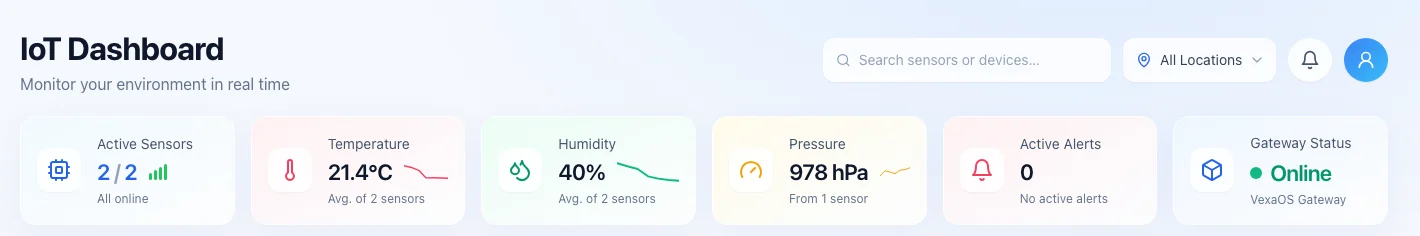
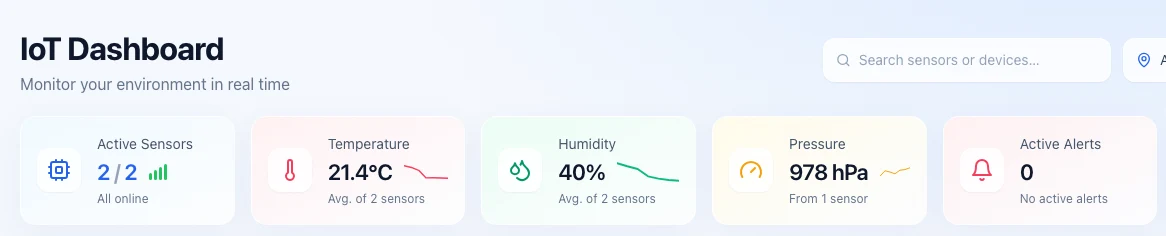
Crop the old-wordmark gateway tile out of the dashboard summary screenshot

diff --git a/content/th/common.ts b/content/th/common.ts
@@ -102,7 +102,7 @@ export const common = {
   },
   shots: {
     dashboardSummary: {
-      alt: 'แถวสรุปบนแดชบอร์ดเว็บของ VexaOs: เซนเซอร์ออนไลน์ 2 จาก 2 ตัว อุณหภูมิเฉลี่ย 21.4 °C ความชื้น 40% ความกดอากาศ 978 hPa ไม่มีการแจ้งเตือนที่ยังค้างอยู่ เกตเวย์ออนไลน์',
+      alt: 'แถวสรุปบนแดชบอร์ดเว็บของ VexaOs: เซนเซอร์ออนไลน์ 2 จาก 2 ตัว อุณหภูมิเฉลี่ย 21.4 °C ความชื้น 40% ความกดอากาศ 978 hPa และไม่มีการแจ้งเตือนที่ยังค้างอยู่',
       caption: 'แถวสรุปบนแดชบอร์ดเว็บ ภาพจริงจากไซต์ทดสอบของเรา',
     },
     dashboardPanels: {

diff --git a/content/vi/common.ts b/content/vi/common.ts
@@ -102,7 +102,7 @@ export const common = {
   },
   shots: {
     dashboardSummary: {
-      alt: 'Hàng tóm tắt trên bảng điều khiển web của VexaOs: 2 trên 2 cảm biến đang trực tuyến, nhiệt độ trung bình 21,4 °C, độ ẩm 40%, áp suất 978 hPa, không có cảnh báo đang hoạt động, gateway đang trực tuyến.',
+      alt: 'Hàng tóm tắt trên bảng điều khiển web của VexaOs: 2 trên 2 cảm biến đang trực tuyến, nhiệt độ trung bình 21,4 °C, độ ẩm 40%, áp suất 978 hPa và không có cảnh báo đang hoạt động.',
       caption: 'Hàng tóm tắt trên bảng điều khiển web. Ảnh chụp thực tế từ cơ sở thử nghiệm của chúng tôi.',
     },
     dashboardPanels: {

diff --git a/lib/shots.ts b/lib/shots.ts
@@ -13,7 +13,7 @@ import type { ShotKey } from './i18n/types';
  * running on demonstration data, and are always captioned as such.
  */
 export const SHOTS: Record<ShotKey, { src: string; width: number; height: number }> = {
-  dashboardSummary: { src: '/product/iot-dashboard-summary.webp', width: 1420, height: 236 },
+  dashboardSummary: { src: '/product/iot-dashboard-summary.webp', width: 1166, height: 236 },
   dashboardPanels: { src: '/product/iot-dashboard-panels.webp', width: 362, height: 570 },
   doorActivity: { src: '/product/iot-door-activity.webp', width: 1600, height: 790 },
   sensorCharts: { src: '/product/iot-sensor-charts.webp', width: 1600, height: 796 },

diff --git a/content/fil/common.ts b/content/fil/common.ts
@@ -102,7 +102,7 @@ export const common = {
   },
   shots: {
     dashboardSummary: {
-      alt: 'Summary row ng VexaOs web dashboard: 2 sa 2 sensor ang online, average na temperatura 21.4 °C, humidity 40%, pressure 978 hPa, walang aktibong alert, online ang gateway.',
+      alt: 'Summary row ng VexaOs web dashboard: 2 sa 2 sensor ang online, average na temperatura 21.4 °C, humidity 40%, pressure 978 hPa at walang aktibong alert.',
       caption: 'Ang summary row ng web dashboard. Totoong kuha mula sa aming test site.',
     },
     dashboardPanels: {

diff --git a/content/id/common.ts b/content/id/common.ts
@@ -102,7 +102,7 @@ export const common = {
   },
   shots: {
     dashboardSummary: {
-      alt: 'Baris ringkasan dashboard web VexaOs: 2 dari 2 sensor online, suhu rata-rata 21,4 °C, kelembapan 40%, tekanan 978 hPa, tidak ada peringatan aktif, gateway online.',
+      alt: 'Baris ringkasan dashboard web VexaOs: 2 dari 2 sensor online, suhu rata-rata 21,4 °C, kelembapan 40%, tekanan 978 hPa dan tidak ada peringatan aktif.',
       caption: 'Baris ringkasan dashboard web. Tangkapan layar asli dari site uji kami.',
     },
     dashboardPanels: {

diff --git a/content/en/common.ts b/content/en/common.ts
@@ -101,7 +101,7 @@ export const common = {
   },
   shots: {
     dashboardSummary: {
-      alt: 'VexaOs web dashboard summary row: 2 of 2 sensors online, average temperature 21.4 °C, humidity 40%, pressure 978 hPa, no active alerts, gateway online.',
+      alt: 'VexaOs web dashboard summary row: 2 of 2 sensors online, average temperature 21.4 °C, humidity 40%, pressure 978 hPa and no active alerts.',
       caption: 'The web dashboard summary row. Real capture from our test site.',
     },
     dashboardPanels: {
